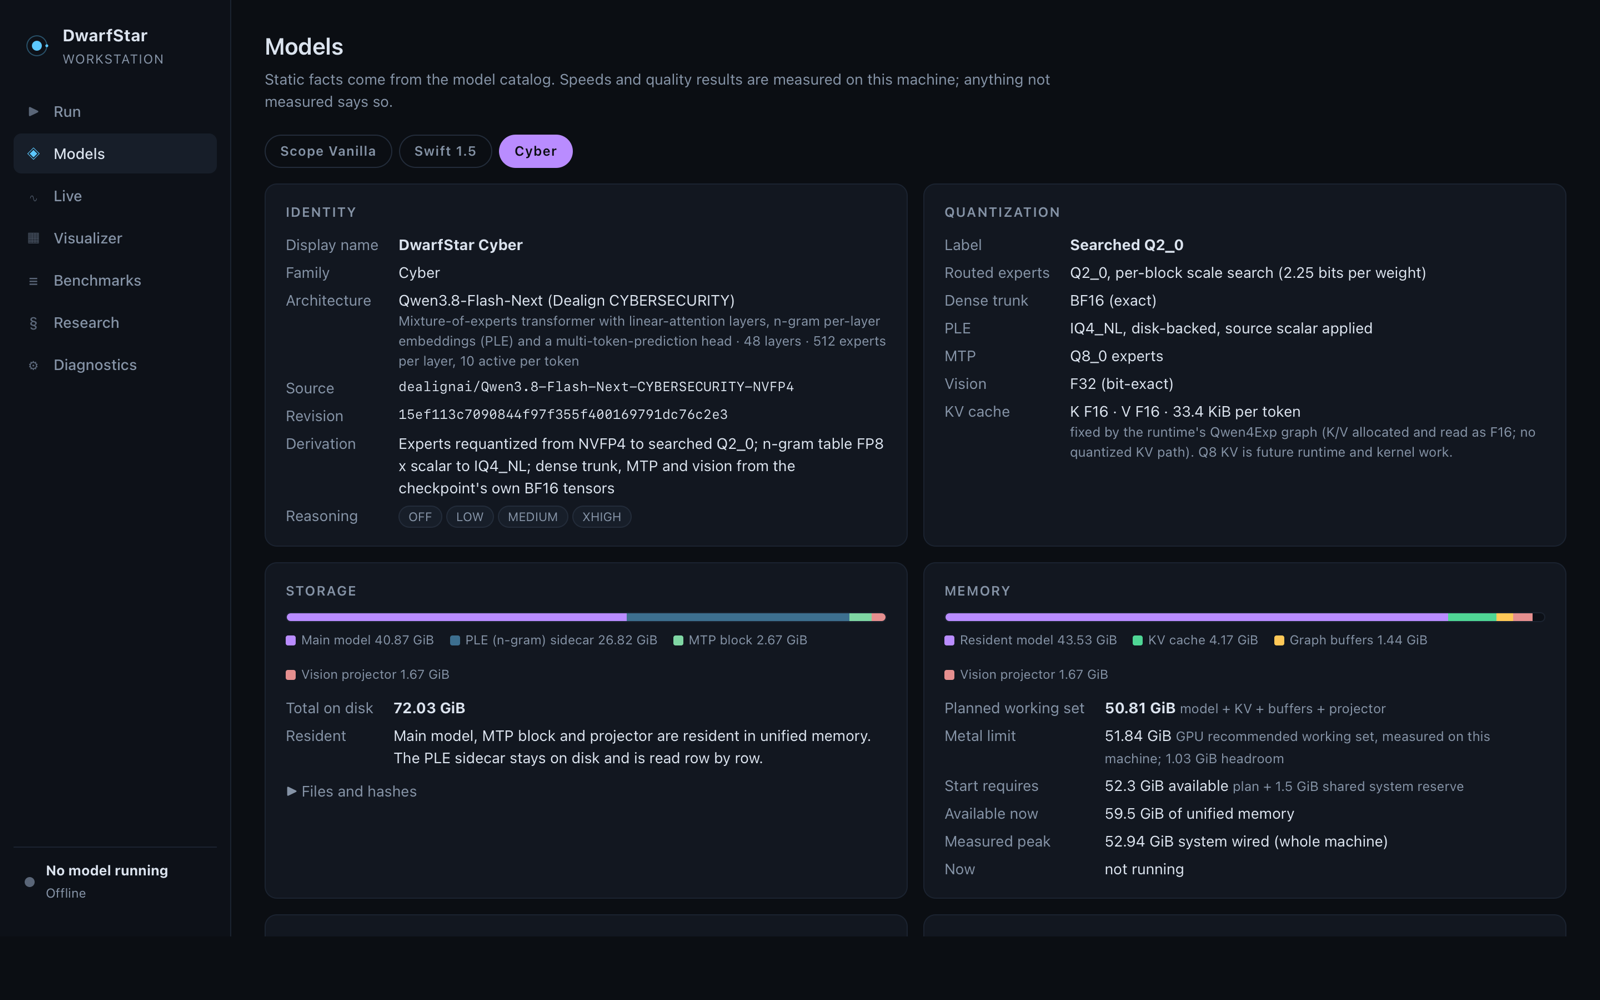
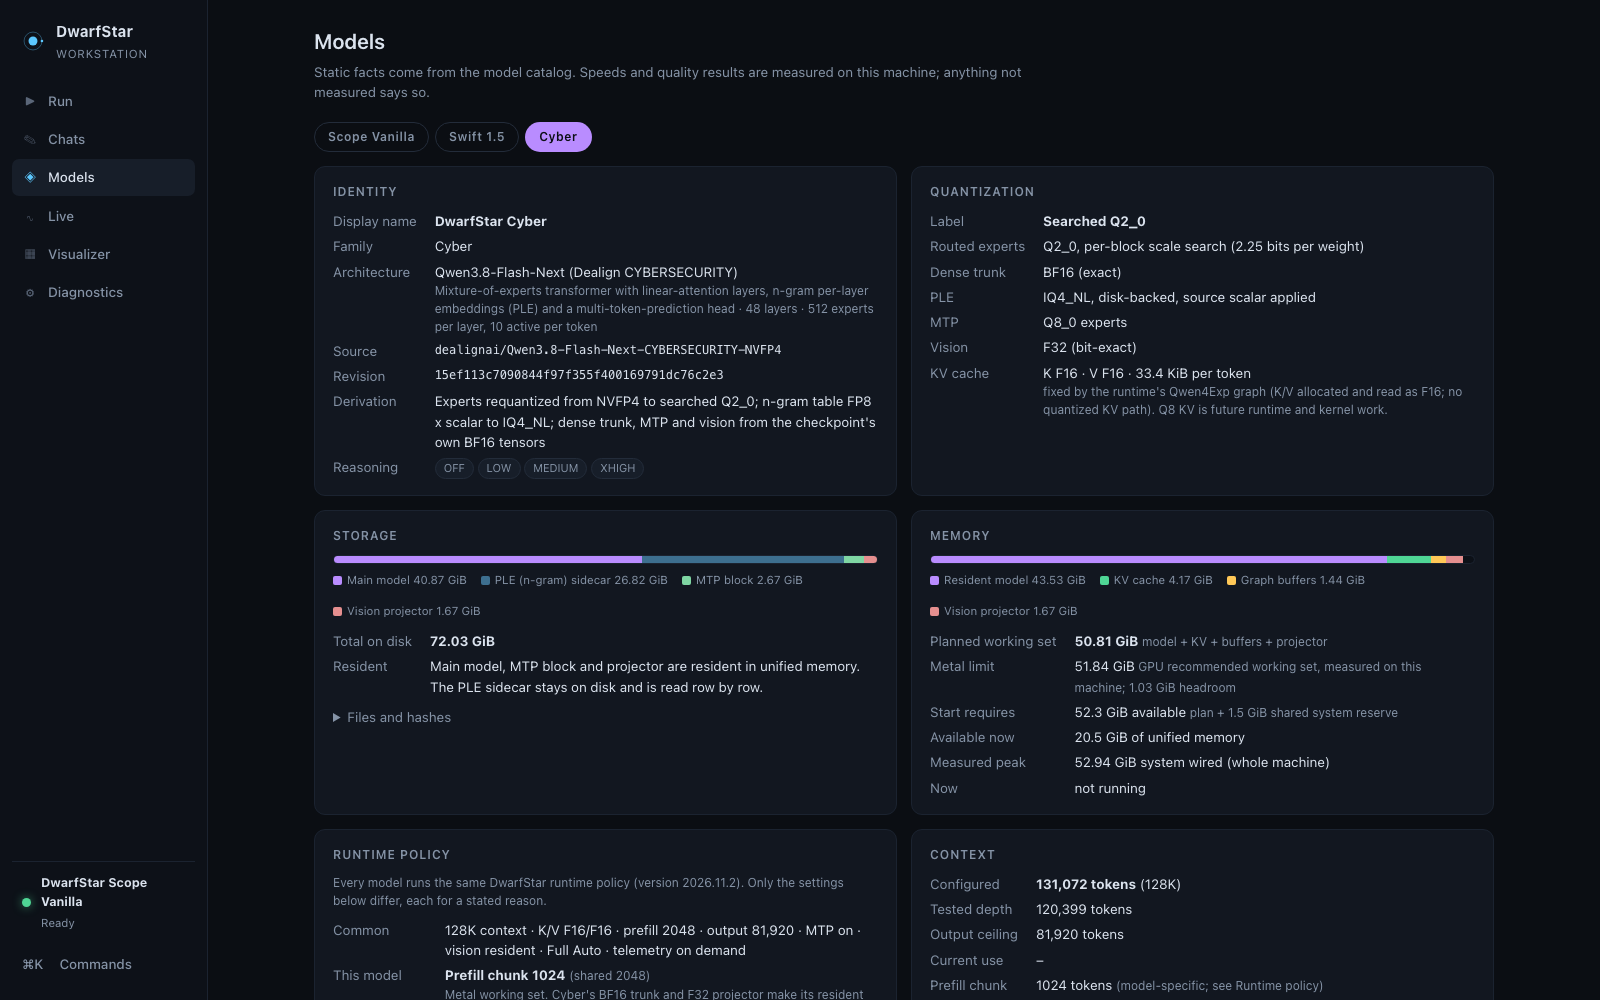
docs: chats, approval presets, recovery, diagnostics and new screenshots
Documents the chat organization features, the Ask / Workspace Auto / Full Auto presets, crash recovery, the expanded Diagnostics page, switch stages, the Visualizer's Requests table and backend capability labels, and links the backend evaluation from the README. Screenshots are regenerated from the real Workstation with Scope LOW running one shell-tool turn (scripts/validate/ui/docs_screens.mjs; home paths shown as ~), without the removed Benchmarks page, and add Diagnostics and the command palette. Scope's measured peak wired memory (45.9 GiB, backend A/B run) is now recorded in its catalog entry.

diff --git a/docs/WORKSTATION.md b/docs/WORKSTATION.md
@@ -6,12 +6,12 @@
 
 | View | Contents |
 |---|---|
-| **Chats** | New chat (uses the model and reasoning chosen on Run), recent and archived lists, search, inline rename (never overwritten by the automatic title), archive/unarchive, two-step delete, timestamps, model/reasoning and context usage per chat. Turns run through the same ACP agent as Zed and resume its session, so tools, Full Auto and the agent's automatic compaction apply; the full transcript is kept separately under `<data>/chats/` (never in Git). Reasoning is not shown. |
-| **Run** | Model selector (Scope Vanilla, Swift 1.5, Cyber), a reasoning selector that changes per model, the model's context as a fixed capability (128K for all three), launch/switch/stop, memory admission, key measured numbers and the matching Zed entry. |
+| **Chats** | New chat (uses the model and reasoning chosen on Run), Recent / Starred / Archived, tag filters and search (titles, tags, messages), pins (kept on top), stars, tags, inline rename (never overwritten by the automatic title), fork the whole chat or from any reply, new chat with the same settings, export as Markdown or JSON, select mode for bulk archive/restore/delete (deleting needs the count typed out; chats are moved aside, not erased), context used and left, compactions. Turns run through the same ACP agent as Zed and resume its session, so tools, the approval mode and the agent's automatic compaction apply; the full transcript is kept separately under `<data>/chats/` (never in Git). In Ask mode a tool call shows an approval card in the chat. Reasoning is not shown. The last chat reopens after a restart. |
+| **Run** | Model selector (Scope Vanilla, Swift 1.5, Cyber), a reasoning selector that changes per model (the last level used with each model is remembered), the model's context as a fixed capability (128K for all three), launch/switch/stop with a stage row (stop current, memory check, load with a timer against the measured load time, health check, ready), a pre-switch summary when a running model or an answering chat would be interrupted, memory admission, key measured numbers, the matching Zed entry and the tool approval presets. |
 | **Models** | One statistics page per model with the same schema: identity, source and revision, quantization, storage, memory plan, context and KV cache dtypes, speed, MTP, capabilities, provenance, and quality/benchmark history. Anything not measured says **Not measured**. |
 | **Live** | Prompt/output tokens, prefill and decode rates, MTP acceptance, context occupancy, PLE disk reads, unified memory, GPU and the tool activity of the running session. |
 | **Visualizer** | See `docs/VISUALIZER.md`. |
-| **Diagnostics** | Generated-config drift, Zed entry check, seal presence, telemetry hub state, server logs, code and data roots. |
+| **Diagnostics** | Running model (reasoning, backend, PID, port, health, context used and left, prefill chunk, KV types); memory as a composition bar plus four separate figures (system RAM, DwarfStar's admission requirement, the Metal working-set limit, the measured peak); chats, agent session, compactions and approval mode; telemetry and the last recovery report; 23 health checks with remedies (machine, software, runtime pins, model files, generated config, Zed, agent browser, KimiCU, app); Refresh, Copy diagnostics (home paths as `~`) and Reconcile state. `bin/dwarfstar doctor` prints the same checks. |
 
 ## Profiles
 
@@ -22,6 +22,20 @@
 | Cyber | OFF, LOW, MEDIUM, XHIGH | 128K | F16 / F16 | no |
 
 Changing reasoning on a running model never restarts it; the effort is carried per request by the agent's provider file. Swift LOW and MEDIUM keep separate session namespaces.
+
+## Tool approval
+
+| Preset | Behaviour |
+|---|---|
+| **Ask** | Every tool call waits for approval: in Zed's panel, or as an approval card in the Workstation chat (declined after 10 minutes). |
+| **Workspace Auto** | Tools run without asking inside the session's workspace folder, in a macOS sandbox; anything outside it is refused. |
+| **Full Auto** | Every tool call runs without asking, outside any sandbox. Turning it on always needs an explicit confirmation. |
+
+The preset is installation-wide (`<data>/config/approval.json`), applies to new agent sessions and the next chat turn, and is the same for every profile. macOS's own permission prompts (screen recording, accessibility) are separate and always apply.
+
+## Recovery
+
+When the service starts, and on **Reconcile state** in Diagnostics, saved state is compared with the real processes; nothing is ever signalled. A ledger whose process has exited is retired; a ledger whose PID now belongs to another program is retired without touching that program; a running server whose command line is exactly this model's generated one but has no ledger (the service or controller died during a start) is health-checked and adopted, so the Workstation reconnects instead of starting a second copy; any other model server is reported as foreign. A chat whose transcript ends with an unanswered message is marked interrupted (its agent session is intact; send again to continue), and telemetry sessions left open by a crash are closed.
 
 ## Memory admission
 

diff --git a/README.md b/README.md
@@ -16,10 +16,10 @@ Seven profiles, one per model × reasoning effort. Context is a model property; 
 
 ## What is in the box
 
-* **One Workstation** (`DwarfStar Workstation.app`): pick a model and a reasoning level, start/switch/stop with memory admission, per-model statistics, live telemetry, a compute visualizer, the benchmark history and diagnostics.
+* **One Workstation** (`DwarfStar Workstation.app`): pick a model and a reasoning level, start/switch/stop with memory admission and visible stages, per-model statistics, live telemetry, a compute visualizer with per-request history, and diagnostics with health checks and crash recovery.
 * **One controller** that only ever runs one model, refuses unpinned binaries or model files, and checks each model's own memory plan before loading.
-* **Chats** in the Workstation: durable, searchable conversations that run through the same agent (tools, Full Auto, automatic compaction) and stay on your Mac.
-* **One agent launcher** for every profile: `bin/dwarfstar-acp --profile <id>` (ACP, Full Auto, workspace/shell/browser/computer-use/vision tools, compaction, recovery).
+* **Chats** in the Workstation: durable conversations with pins, stars, tags, forks and Markdown/JSON export that run through the same agent (tools, automatic compaction) and stay on your Mac.
+* **One agent launcher** for every profile: `bin/dwarfstar-acp --profile <id>` (ACP, workspace/shell/browser/computer-use/vision tools, compaction, recovery) with three approval presets: Ask, Workspace Auto and Full Auto.
 * **One runtime build** (`ds4-unified`): the pinned Paperniuk ds4 Metal runtime plus optional telemetry hooks, token-identical to the reference builds for all three models.
 * **Real telemetry**: router selections per layer, MTP drafts, PLE disk reads, context occupancy, prefill/decode and tool actions — produced only while someone is watching.
 
@@ -47,6 +47,7 @@ Model weights are not in this repository. See [docs/REPRODUCIBILITY.md](docs/REP
 | [Workstation](docs/WORKSTATION.md) | Views, profiles, memory admission, building the app |
 | [Visualizer](docs/VISUALIZER.md) | What each region shows and where it comes from |
 | [Benchmarks](docs/BENCHMARKS.md) | Results, how they were measured, the production validation |
+| [Backends](docs/BACKENDS.md) | Native vs Splash-m1 vs MLX per model, prefill chunk and prefix reuse |
 | [Cyber conversion](docs/CYBER-CONVERSION.md) | NVFP4 → DwarfStar, fidelity and limitations |
 | [Research history](docs/RESEARCH-HISTORY.md) | How it was built, with dates |
 | [Reproducibility](docs/REPRODUCIBILITY.md) | Pins, data root, rebuilding |

diff --git a/docs/VISUALIZER.md b/docs/VISUALIZER.md
@@ -14,6 +14,9 @@ One implementation (`app/workstation/web/visualizer.js`) for every model. It dra
 | Context | request and tick events | Context occupancy against the model's 128K. |
 | Prefill / decode | request phases from the server log stream | Prompt start, prefill progress, decode rate, finish. |
 | Action timeline | agent tool events | Workspace, shell, browser, computer use (KimiCU) and vision actions with duration and result. Names and categories only. |
+| Requests | request `start` / `finish` events | One row per model request: prompt tokens, reused prefix and its share, new prefill, prefill and decode rates, generated tokens, total time and how it ended. Also filled when replaying a recorded session. |
+
+**Backend capabilities.** The catalog tells the page which backend serves the model and what it reports. The native runtime reports router selections, MTP drafts and PLE reads per token. A backend that does not (Splash-m1 reports requests, rates, context and its memory plan only) gets a "not reported by this backend" label in those regions; nothing is drawn from estimates.
 
 Never shown: prompt text, reasoning, tool arguments, file contents or credentials. This is a compute and action view, not a transcript.
 

diff --git a/docs/DEVELOPMENT.md b/docs/DEVELOPMENT.md
@@ -22,7 +22,7 @@ bin/dwarfstar assets                              # verify model files against t
 scripts/validate/check.sh
 ```
 
-Runs the unit tests (catalog, lifecycle state machine, memory admission, telemetry hub, approval and redaction policy), parses every Python file, lints, checks generated configuration against the catalog, checks the benchmark index is reproducible, and syntax-checks the JavaScript and TypeScript.
+Runs the unit tests (catalog and backends, lifecycle state machine, memory admission, telemetry hub, chats, crash recovery, approval and redaction policy), parses every Python file, lints, checks generated configuration against the catalog, checks the benchmark index is reproducible, and syntax-checks the JavaScript and TypeScript.
 
 ## Changing a model fact
 
